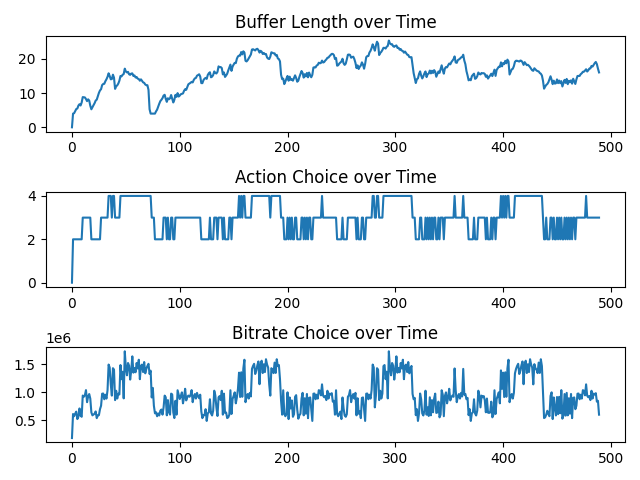
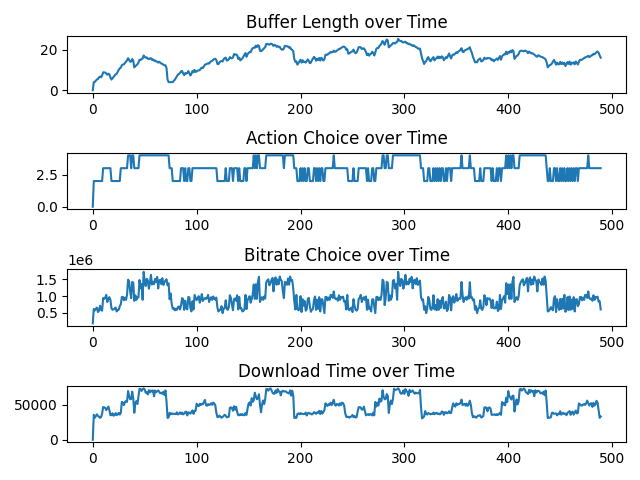
refactored code, added download time metric, added overlay graph

diff --git a/evaluate_model.py b/evaluate_model.py
@@ -1,12 +1,13 @@
 import d3rlpy
 from d3rlpy import dataset
+from d3rlpy.algos.bcq import BCQ
 import numpy as np
 import csv
+
+from wget import download
 from env.abr import ABRSimEnv
 import matplotlib.pyplot as plt
 
-# MODEL_WEIGHTS = "d3rlpy_logs/DiscreteCQL_20211115220329/model_8950.pt"
-MODEL_WEIGHTS = "d3rlpy_logs/DiscreteBCQ_20211115222009/model_8950.pt"
 
 def evaluate_agent(agent):
     # Launch ABR environment
@@ -24,10 +25,11 @@ def evaluate_agent(agent):
         done = False
         t = 0
         rews = []
-        metrics = {"action": [], "buffer_length": [], "action_bitrate": [], "file_size": []}
+        metrics = {"action": [], "buffer_length": [], "action_bitrate": [], "download_time": []}
         while not done:
             # Choose an action through random policy
             act = agent.predict(obs[np.newaxis, :]).item()
+            metrics["download_time"].append(sum(obs[4:9] / 5)) # avg download time
             metrics['buffer_length'].append(obs[10])
             metrics['action'].append(act)
             metrics['action_bitrate'].append(obs[13+act])
@@ -46,26 +48,72 @@ def evaluate_agent(agent):
         trajectories.append(metrics)
     return trajectories
 
-def plot_trajectory(trajectory):
+def plot_trajectory(trajectory, agent_name):
     buffer_history = trajectory["buffer_length"]
-    plt.subplot(311)
+    plt.subplot(411)
     plt.plot(buffer_history)
     plt.title("Buffer Length over Time")
 
     action_history = trajectory["action"]
-    plt.subplot(312)
+    plt.subplot(412)
     plt.plot(action_history)
     plt.title("Action Choice over Time")
 
     action_bitrate_history = trajectory["action_bitrate"]
-    plt.subplot(313)
+    plt.subplot(413)
     plt.plot(action_bitrate_history)
     plt.title("Bitrate Choice over Time")
 
-    plt.tight_layout(pad=1.0)
-    plt.savefig("output/latest_trajectory_bcq.png")
+    download_history = trajectory["download_time"]
+    plt.subplot(414)
+    plt.plot(download_history)
+    plt.title("Download Time over Time")
 
-def plot_avg_trajectory_metrics(trajectories):
+    plt.tight_layout(pad=1.0)
+    plt.savefig("output/latest_trajectory_{}.png".format(agent_name))
+
+
+def average_trajectory(trajectories, field):
+    avg = [0 for _ in range(490)]
+    for t in trajectories:
+        buffer_history = t[field]
+        for i in range(len(buffer_history)):
+            avg[i] += buffer_history[i]
+    for i in range(490):
+        avg[i] /= len(trajectories)
+    
+    return avg
+def plot_trajectory_overlay(cql_trajectories, bcq_trajectories):
+    cql_avg_buffer_length = average_trajectory(cql_trajectories, "buffer_length")
+    bcq_avg_buffer_length = average_trajectory(bcq_trajectories, "buffer_length")
+
+    cql_avg_action_bitrate = average_trajectory(cql_trajectories, "action_bitrate")
+    bcq_avg_action_bitrate = average_trajectory(bcq_trajectories, "action_bitrate")
+
+    cql_avg_download_time = average_trajectory(cql_trajectories, "download_time")
+    bcq_avg_download_time = average_trajectory(bcq_trajectories, "download_time")
+
+    plt.subplot(311)
+    plt.plot(cql_avg_buffer_length, label="cql")
+    plt.plot(bcq_avg_buffer_length, label="bcq")
+    plt.title("Buffer Length over Time")
+
+    plt.subplot(312)
+    plt.plot(cql_avg_action_bitrate, label="cql")
+    plt.plot(bcq_avg_action_bitrate, label="bcq")
+    plt.title("Bitrate Choice over Time")
+
+    plt.subplot(313)
+    plt.plot(cql_avg_download_time, label="cql")
+    plt.plot(bcq_avg_download_time, label="bcq")
+    plt.title("Download Time over Time")
+
+    plt.tight_layout(pad=1.0)
+    plt.legend()
+    plt.savefig("output/trajectory_overlay.png")
+
+
+def plot_avg_trajectory_metrics(trajectories, agent_name):
     num_trajectories = len(trajectories)
     avg_buffer_length = [0 for _ in range(490)]
     avg_bitrate_history = [0 for _ in range(490)]
@@ -92,7 +140,7 @@ def plot_avg_trajectory_metrics(trajectories):
     plt.title("Average Trajectory Bitrate Choice over Time")
 
     plt.tight_layout(pad=1.0)
-    plt.savefig("output/average_trajectory_cql.png")
+    plt.savefig("output/average_trajectory_{}.png".format(agent_name))
     
 
 
@@ -100,11 +148,20 @@ def plot_avg_trajectory_metrics(trajectories):
 
 
 if __name__ == "__main__":
-    # model = d3rlpy.algos.DiscreteCQL.from_json("d3rlpy_logs/DiscreteCQL_20211115220329/params.json")
-    model = d3rlpy.algos.DiscreteBCQ.from_json("d3rlpy_logs/DiscreteBCQ_20211115222009/params.json")
-    model.load_model(MODEL_WEIGHTS)
-    trajectories = evaluate_agent(model)
-    plot_trajectory(trajectories[0])
-    # plot_avg_trajectory_metrics(trajectories)
+    cql_model = d3rlpy.algos.DiscreteCQL.from_json("d3rlpy_logs/DiscreteCQL_20211115220329/params.json")
+    CQL_MODEL_WEIGHTS = "d3rlpy_logs/DiscreteCQL_20211115220329/model_8950.pt"
+
+    bcq_model = d3rlpy.algos.DiscreteBCQ.from_json("d3rlpy_logs/DiscreteBCQ_20211115222009/params.json")
+    BCQ_MODEL_WEIGHTS = "d3rlpy_logs/DiscreteBCQ_20211115222009/model_8950.pt"
+
+    cql_model.load_model(CQL_MODEL_WEIGHTS)
+    cql_trajectories = evaluate_agent(cql_model)
+    bcq_model.load_model(BCQ_MODEL_WEIGHTS)
+    bcq_trajectories = evaluate_agent(bcq_model)
+
+
+    plot_trajectory_overlay(cql_trajectories, bcq_trajectories)
+    # plot_trajectory(cql_trajectories[0], "cql")
+    # plot_avg_trajectory_metrics(cql_trajectories, "cql")
 
 
